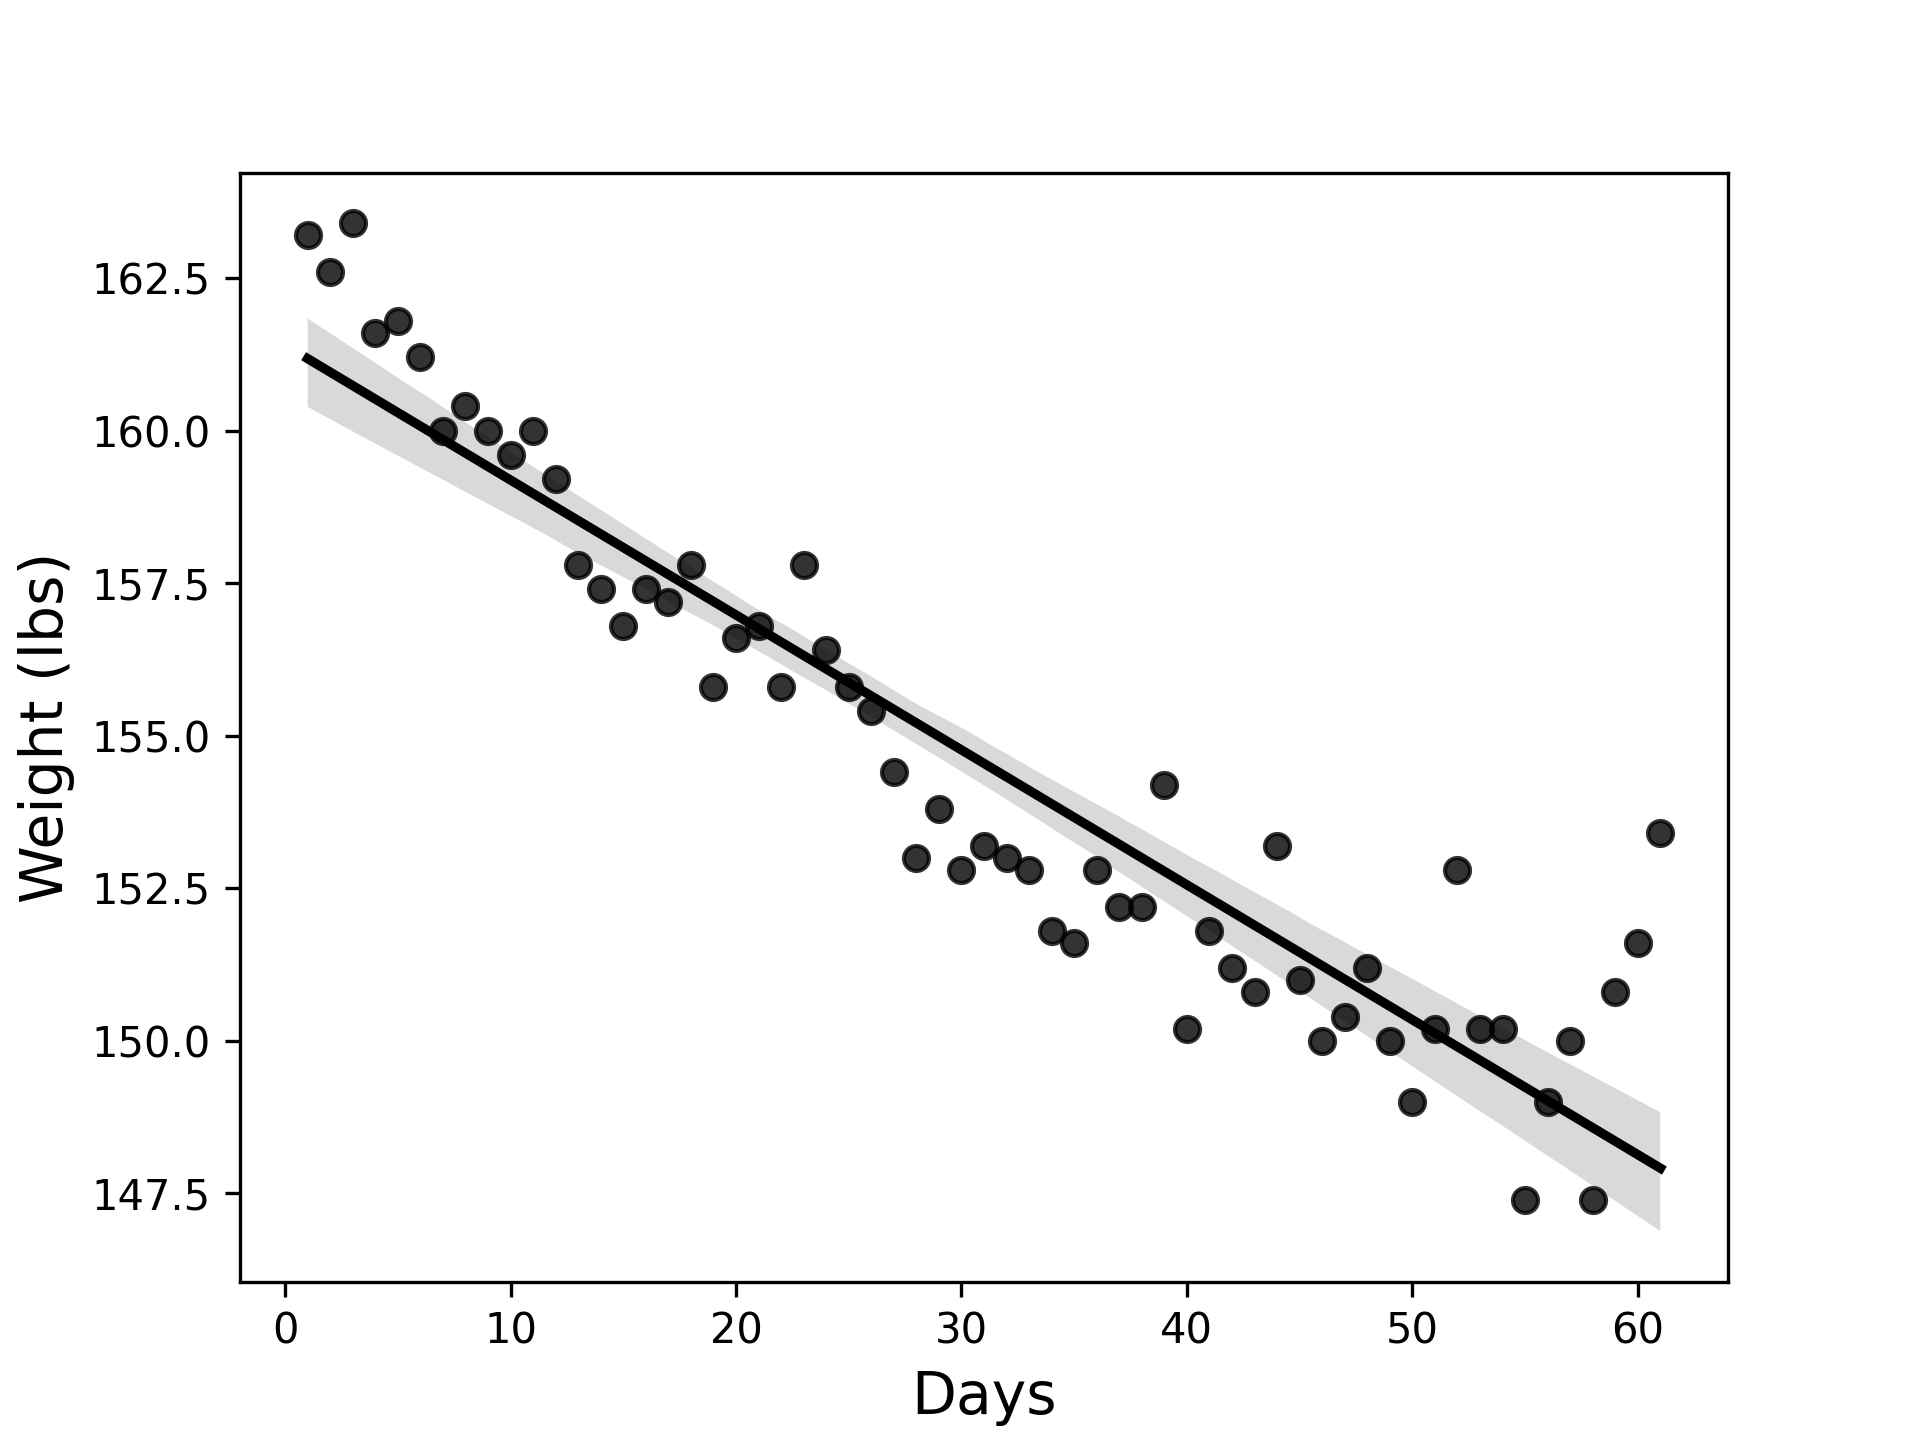
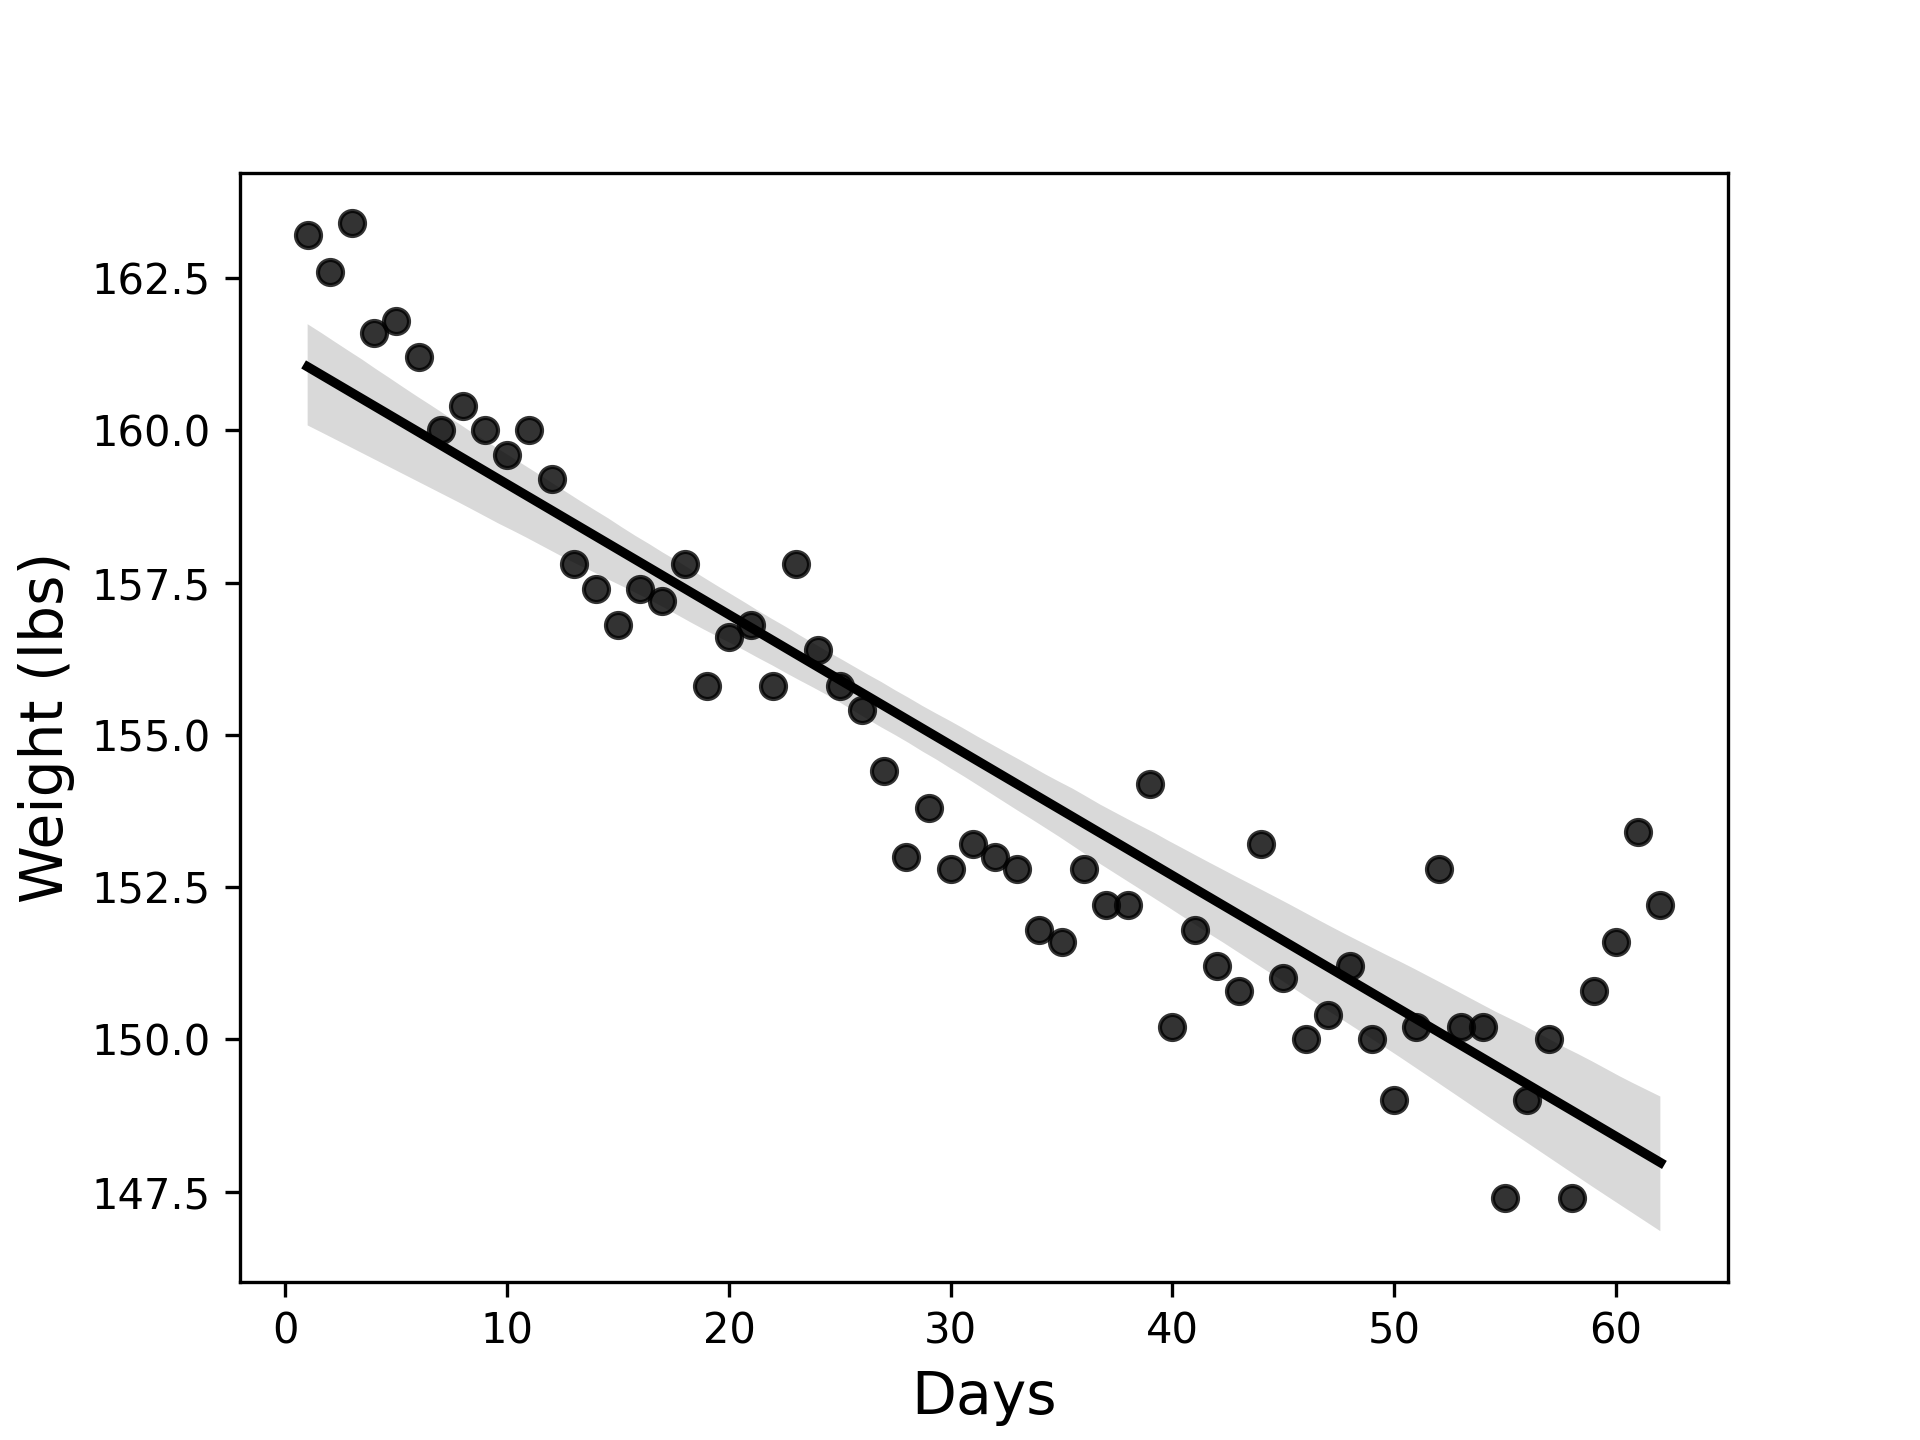
Updated weight.py and weight.png

diff --git a/Weight.py b/Weight.py
@@ -7,12 +7,12 @@ import seaborn as sns
 # Creates an array of elapsed days and assigns it to days_elapsed
 days_elapsed = np.array([1, 2, 3 ,4, 5, 6, 7, 8, 9, 10,11,12,13, 14,15,16,17,18,
                          19, 20,21,22,23,24,25,26,27,28,29,30,31,32,33,34,35,36,37,38,39,
-                         40,41,42,43,44,45,46,47,48,49,50,51,52,53,54,55,56,57,58,59,60,61]).reshape(-1,1)
+                         40,41,42,43,44,45,46,47,48,49,50,51,52,53,54,55,56,57,58,59,60,61,62]).reshape(-1,1)
 weight = np.array([163.2, 162.6, 163.4, 161.6, 161.8, 161.2, 160.0, 160.4, 160.0, 159.6,160.0,159.2,157.8, 157.4,156.8,157.4,
                    157.2, 157.8,155.8, 156.6,156.8,155.8,157.8,156.4,155.8,155.4,154.4,153.0,153.8,152.8,153.2,
                    153.0,152.8,151.8,151.6,152.8,152.2,152.2,154.2,150.2, 151.8,151.2,150.8,153.2,
                    151.0,150.0,150.4,151.2,150.0,149.0,150.2,152.8,150.2,150.2,147.4,149.0,150.0,147.4,
-                   150.8,151.6,153.4])
+                   150.8,151.6,153.4,152.2])
 
 # Instantiates a LinearRegression model and fits it to the above arrays
 model = sklearn.linear_model.LinearRegression().fit(days_elapsed,weight)
